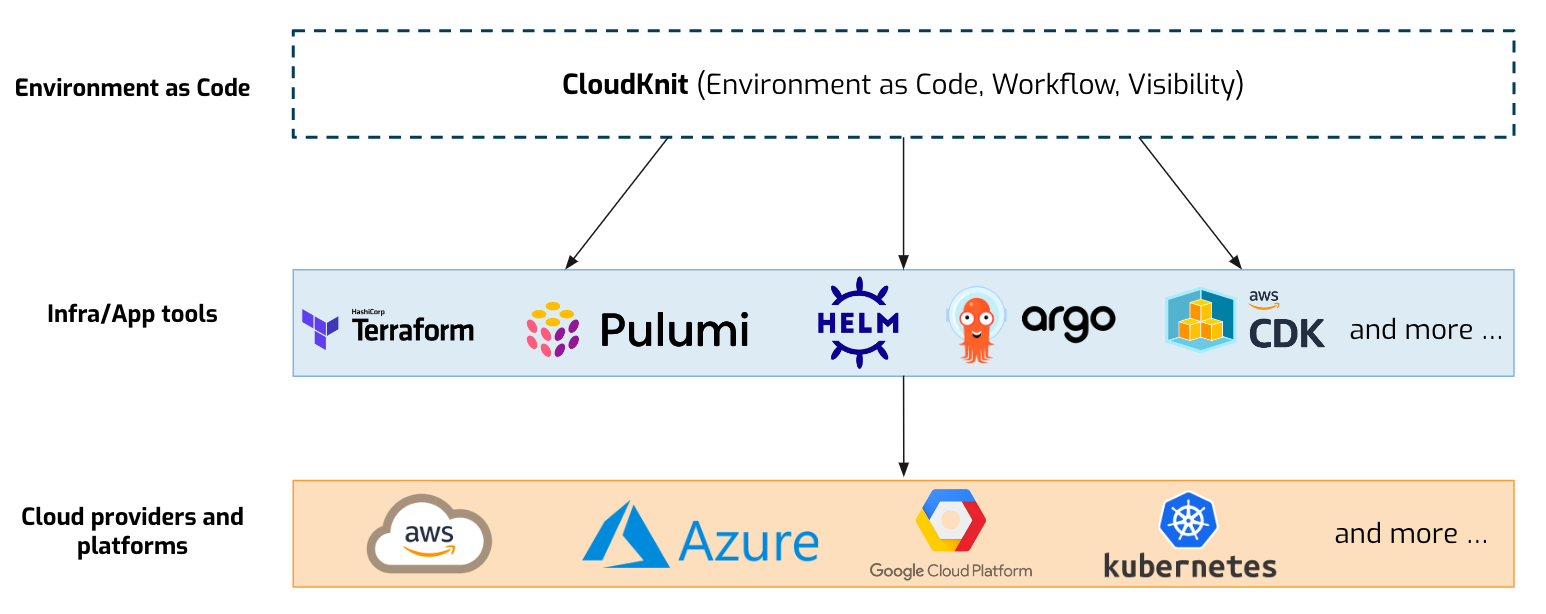
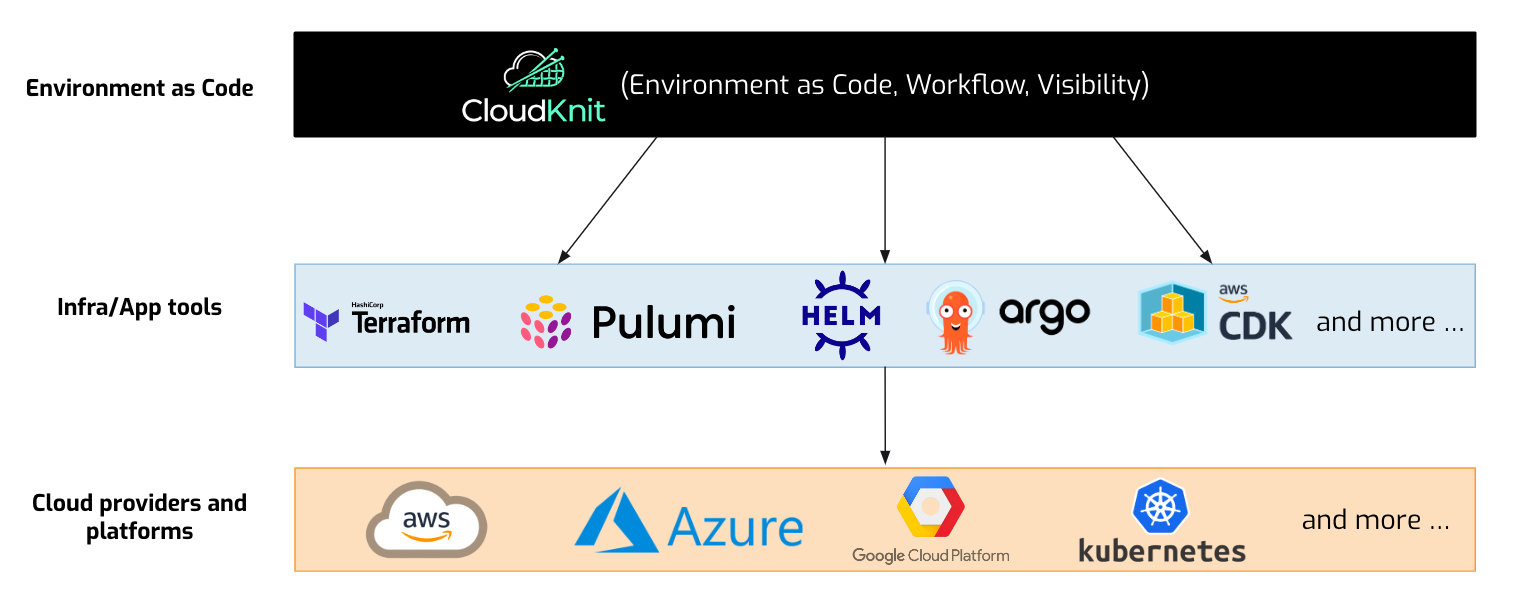
minor updates to readme & CK diagram

diff --git a/README.md b/README.md
@@ -1,10 +1,10 @@
-# CloudKnit: An Open Source Cloud Environment Manager
+# CloudKnit: An Open Source Solution to Manage Cloud Environments
 
-[CloudKnit](https://github.com/cloudknit-io/cloudknit) is an open-source "progressive delivery platform" for managing cloud environments. It enables organizations to **Define** entire environments in a declarative way, **Provision** them, **Detect** and **Reconcile** Drift, and **Teardown** environments when no longer needed. It also comes with dashboards to help visualize environments and observe them.
+CloudKnit is an open-source `progressive delivery platform` for managing cloud environments. It enables organizations to **Define** entire environments in a declarative way, **Provision** them, **Detect** and **Reconcile** Drift, and **Teardown** environments when no longer needed. It also comes with dashboards to help visualize environments and observe them.
 
 CloudKnit is based on a concept called [Environment as Code](https://www.cloudknit.io/blog/from-infrastructure-as-code-to-environment-as-code). Some people have started calling it Declarative Pipelines.
 
-> *Note: We are not a big fan of using Pipeline and Declarative together as Pipeline to us means a sequence of steps which is conflicts with what Declarative means.*
+> *Note: We are not a big fan of using Pipeline and Declarative together as Pipeline to us means a sequence of steps which conflicts with what Declarative means.*
 
 Environment as Code (EaC) is an abstraction over Cloud-native tools that provides a declarative way of defining an entire Environment. It has a Control Plane that manages the state of the environment, including resource dependencies, and drift detection and reconciliation.
 
@@ -116,7 +116,7 @@ You might want to teardown environments when they are not used to save costs. Cl
 
 We hope that by open-sourcing CloseKnit early, we can form a close-knit open-source community around it to make managing complex cloud environments easy.
 
-For a deeper dive into CloudKnit, see the [architecture document](TBD), our [documentation](https://docs.cloudknit.io), and the [GitHub repo](https://github.com/cloudknit-io/cloudknit).
+For a deeper dive into CloudKnit, see the architecture document (coming soon), our [documentation](https://docs.cloudknit.io), and the [GitHub repo](https://github.com/cloudknit-io/cloudknit).
 
 #### Terminologies
 
